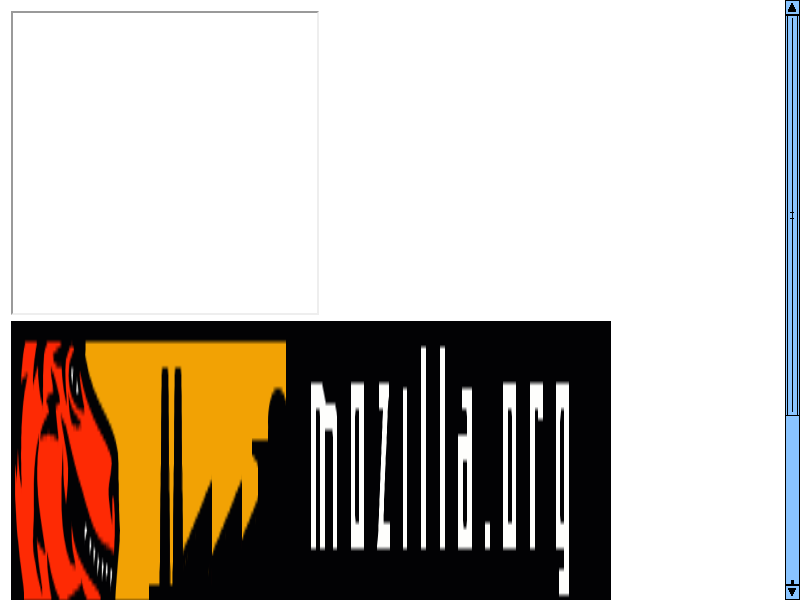
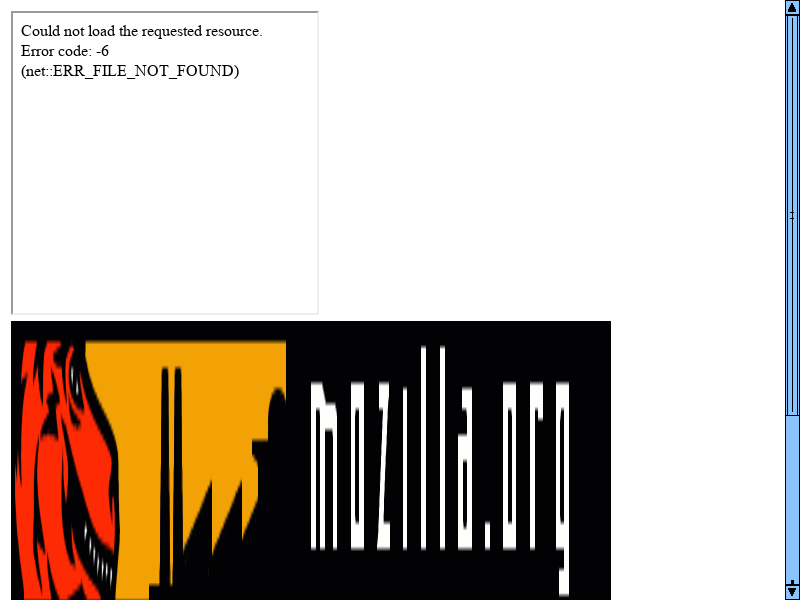
Add net error pages to content shell.
Currently content shell shows a blank page on error. In
content_browsertests the (unexpected, I guess) effect is that
NavigateToURL returns true even when the page was not loaded. Also with
error pages it will be easier to understand what's happening during
debugging. 

Bug: 
Commit-Queue: Alexander Semashko <ahest@yandex-team.ru>
Cr-Original-Commit-Position: refs/heads/master@{#500327}
Cr-Mirrored-From: https://chromium.googlesource.com/chromium/src
Cr-Mirrored-Commit: 428b42669cd2abb8e4184a5d490c85ccbb07f6a3

Changed region(s): [[0.0312, 0.03, 0.3125, 0.15]]

diff --git a/WebKit/LayoutTests/http/tests/security/xssAuditor/full-block-script-tag-cross-domain.html b/WebKit/LayoutTests/http/tests/security/xssAuditor/full-block-script-tag-cross-domain.html
@@ -14,7 +14,7 @@ function checkframe()
 {
     try {
         var ref = document.getElementById("frame").contentDocument.referrer;
-        console.log('FAIL: Referrer is "' + ref + '"'); 
+        console.log('FAIL: Referrer is "' + ref + '"');
     } catch (e) {
         console.log('PASS: Cross-origin access threw: \'' + e.toString() + '\'.');
     }
@@ -23,7 +23,7 @@ function checkframe()
 </script>
 </head>
 <body>
-<p>There should be no content in the iframe below:</p>
+<p>The loading of iframe below should be blocked:</p>
 <iframe id="frame" name="frame" onload="checkframe()" src="http://localhost:8000/security/xssAuditor/resources/echo-intertag.pl?enable-full-block=1&q=<script>alert(String.fromCharCode(0x58,0x53,0x53))</script>">
 </iframe>
 </body>

diff --git a/WebKit/LayoutTests/http/tests/security/xssAuditor/full-block-object-tag.html b/WebKit/LayoutTests/http/tests/security/xssAuditor/full-block-object-tag.html
@@ -12,7 +12,7 @@ if (window.testRunner) {
 </script>
 </head>
 <body>
-<p>There should be no content in the iframe below:</p>
+<p>The loading of iframe below should be blocked:</p>
 <iframe id="frame" name="frame" onload="checkFrameIsCrossOriginAndCallDone('frame')" src="http://127.0.0.1:8000/security/xssAuditor/resources/echo-intertag.pl?enable-full-block=1&q=<object name='plugin' type='application/x-blink-test-plugin'><param name='movie' value='http://localhost:8000/security/xssAuditor/resources/dummy.swf' /></object>">
 </iframe>
 </body>

diff --git a/WebKit/LayoutTests/http/tests/security/xssAuditor/full-block-javascript-link.html b/WebKit/LayoutTests/http/tests/security/xssAuditor/full-block-javascript-link.html
@@ -12,7 +12,7 @@ if (window.testRunner) {
 </script>
 </head>
 <body>
-<p>There should be no content in the iframe below:</p>
+<p>The loading of iframe below should be blocked:</p>
 <iframe id="frame" name="frame" onload="checkFrameIsCrossOriginAndCallDone('frame')" src='http://127.0.0.1:8000/security/xssAuditor/resources/echo-intertag-click-and-notify.pl?enable-full-block=1&elmid=anchorLink&q=%3Ca+id%3DanchorLink+href%3Djavascript%3Aalert%280%29%3Etest%3C/a%3E'>
 </iframe>
 </body>

diff --git a/WebKit/LayoutTests/http/tests/security/xssAuditor/full-block-base-href.html b/WebKit/LayoutTests/http/tests/security/xssAuditor/full-block-base-href.html
@@ -12,7 +12,7 @@ if (window.testRunner) {
 </script>
 </head>
 <body>
-<p>There should be no content in the iframe below:</p>
+<p>The loading of iframe below should be blocked:</p>
 <iframe id="frame" name="frame" onload="checkFrameIsCrossOriginAndCallDone('frame')" src="http://127.0.0.1:8000/security/xssAuditor/resources/echo-head-base-href.pl?enable-full-block=1&q=<base href='http://localhost:8000/security/xssAuditor/resources/base-href/'>">
 </iframe>
 </body>

diff --git a/WebKit/LayoutTests/http/tests/security/xssAuditor/full-block-script-tag-with-source.html b/WebKit/LayoutTests/http/tests/security/xssAuditor/full-block-script-tag-with-source.html
@@ -12,7 +12,7 @@ if (window.testRunner) {
 </script>
 </head>
 <body>
-<p>There should be no content in the iframe below:</p>
+<p>The loading of iframe below should be blocked:</p>
 <iframe id="frame" name="frame" onload="checkFrameIsCrossOriginAndCallDone('frame')" src="http://127.0.0.1:8000/security/xssAuditor/resources/echo-intertag.pl?enable-full-block=1&q=<script src='http://localhost:8000/security/xssAuditor/resources/xss.js'></script>">
 </iframe>
 </body>

diff --git a/WebKit/LayoutTests/http/tests/security/xssAuditor/full-block-link-onclick.html b/WebKit/LayoutTests/http/tests/security/xssAuditor/full-block-link-onclick.html
@@ -12,7 +12,7 @@ if (window.testRunner) {
 </script>
 </head>
 <body>
-<p>There should be no content in the iframe below:</p>
+<p>The loading of iframe below should be blocked:</p>
 <iframe id="frame" name="frame" onload="checkFrameIsCrossOriginAndCallDone('frame')" src="http://127.0.0.1:8000/security/xssAuditor/resources/echo-intertag.pl?enable-full-block=1&q=<a%20onclick='alert(String.fromCharCode(0x58,0x53,0x53))'>Click</a>">
 </iframe>
 </body>

diff --git a/WebKit/LayoutTests/http/tests/security/xssAuditor/full-block-iframe-javascript-url.html b/WebKit/LayoutTests/http/tests/security/xssAuditor/full-block-iframe-javascript-url.html
@@ -12,7 +12,7 @@ if (window.testRunner) {
 </script>
 </head>
 <body>
-<p>There should be no content in the iframe below:</p>
+<p>The loading of iframe below should be blocked:</p>
 <iframe id="frame" name="frame" onload="checkFrameIsCrossOriginAndCallDone('frame')" src='http://127.0.0.1:8000/security/xssAuditor/resources/echo-intertag.pl?enable-full-block=1&q=%3Ciframe%20src=javascript:alert(document.domain)%3E'>
 </iframe>
 </body>

diff --git a/WebKit/LayoutTests/http/tests/security/xssAuditor/full-block-script-tag.html b/WebKit/LayoutTests/http/tests/security/xssAuditor/full-block-script-tag.html
@@ -23,7 +23,7 @@ function checkframe()
 </script>
 </head>
 <body>
-<p>There should be no content in the iframe below:</p>
+<p>The loading of iframe below should be blocked:</p>
 <iframe id="frame" name="frame" onload="checkframe()" src="http://127.0.0.1:8000/security/xssAuditor/resources/echo-intertag.pl?enable-full-block=1&q=<script>alert(String.fromCharCode(0x58,0x53,0x53))</script>">
 </iframe>
 </body>
